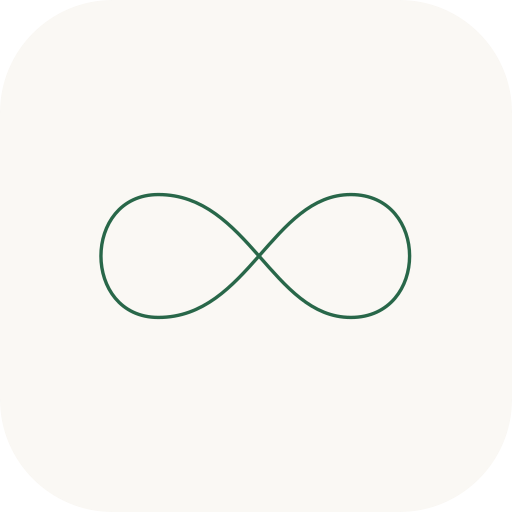
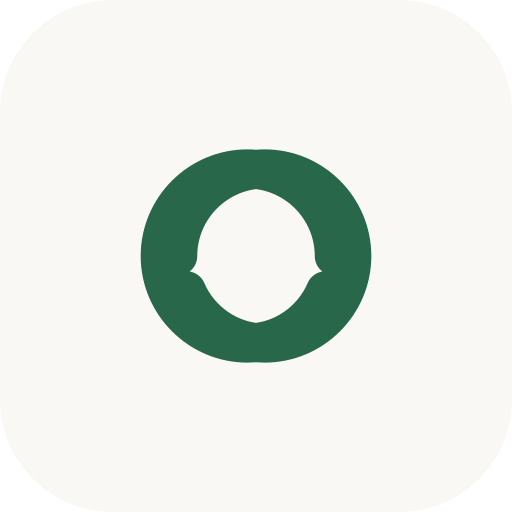
feat: adopt the ring mark as Zapit's brand identity
User picked this from a screenshot earlier in the session — it was
actually my first, scrapped icon attempt (a hand-drawn infinity path
that collapsed into a ring instead of a figure-8 when stroked). Rather
than silently using the mistake, flagged it honestly and confirmed
they wanted it anyway before adopting it as the real brand mark.

New ZapitMark.tsx (shared component, replaces lucide-react's Infinity
icon in NavBar.tsx, app/privacy/page.tsx, app/terms/page.tsx — the
exact same path reused everywhere instead of copy-pasted SVG).
Regenerated icon-*.png / icon-*-maskable.png from the identical path
via scripts/generate-icons.mjs so the app icon, favicon, and in-app
logo all now match pixel-for-pixel.

Found and fixed a real hydration mismatch while verifying this live:
the new SVG had no explicit width/height attributes, and something in
the browser pane (extension or automation tooling — the exact React
error message calls this out as a known cause) was injecting
width=24/height=24 client-side after hydration, causing a server/
client mismatch. Fixed by setting them explicitly rather than relying
on implicit sizing, matching how lucide-react's icons behave by
default. Re-verified clean afterward — no hydration warnings, ring
mark renders correctly on the landing page, navbar (both idle and
connected states), and the privacy page.

diff --git a/frontend/components/ZapitMark.tsx b/frontend/components/ZapitMark.tsx
@@ -1,0 +1,35 @@
+// Zapit's brand mark — a bold ring with a pinched inner waist. Used
+// everywhere the wordmark lockup appears (NavBar, privacy/terms headers)
+// and is the same shape rasterized for the app/PWA icons — see
+// frontend/scripts/generate-icons.mjs. Uses currentColor so the existing
+// `className="text-primary"` usage pattern keeps working exactly like the
+// lucide-react <Infinity> icon it replaces.
+export function ZapitMark({ className, strokeWidth = 9 }: { className?: string; strokeWidth?: number }) {
+  return (
+    <svg
+      viewBox="0 0 100 100"
+      width={24}
+      height={24}
+      className={className}
+      fill="none"
+      xmlns="http://www.w3.org/2000/svg"
+    >
+      <path
+        d="M 32 50
+           C 32 39, 41 30, 52 30
+           C 63 30, 72 39, 72 50
+           C 72 61, 63 70, 52 70
+           C 44 70, 37 65, 34 58
+           M 68 50
+           C 68 39, 59 30, 48 30
+           C 37 30, 28 39, 28 50
+           C 28 61, 37 70, 48 70
+           C 56 70, 63 65, 66 58"
+        stroke="currentColor"
+        strokeWidth={strokeWidth}
+        strokeLinecap="round"
+        strokeLinejoin="round"
+      />
+    </svg>
+  );
+}

diff --git a/frontend/components/NavBar.tsx b/frontend/components/NavBar.tsx
@@ -1,7 +1,8 @@
 'use client';
 
-import { Infinity, X } from 'lucide-react';
+import { X } from 'lucide-react';
 import { SignalingSettings } from './SignalingSettings';
+import { ZapitMark } from './ZapitMark';
 
 interface NavBarProps {
   roomCode: string | null;
@@ -13,7 +14,7 @@ export function NavBar({ roomCode, onDisconnect }: NavBarProps) {
     <header className="w-full px-6 py-4 flex items-center justify-between max-w-5xl mx-auto">
       <div className="flex items-center gap-3">
         <div className="flex items-center gap-2">
-          <Infinity className="text-primary w-6 h-6" strokeWidth={2.5} />
+          <ZapitMark className="text-primary w-6 h-6" />
           <span className="font-display font-bold text-xl text-primary tracking-tight">
             Zapit
           </span>

diff --git a/frontend/app/terms/page.tsx b/frontend/app/terms/page.tsx
@@ -1,5 +1,5 @@
 import Link from 'next/link';
-import { Infinity } from 'lucide-react';
+import { ZapitMark } from '@/components/ZapitMark';
 
 export const metadata = {
   title: 'Terms of Service — Zapit',
@@ -11,7 +11,7 @@ export default function TermsPage() {
     <div className="min-h-screen bg-background flex flex-col">
       <header className="w-full px-6 py-4 flex items-center max-w-5xl mx-auto">
         <Link href="/" className="flex items-center gap-2">
-          <Infinity className="text-primary w-6 h-6" strokeWidth={2.5} />
+          <ZapitMark className="text-primary w-6 h-6" />
           <span className="font-display font-bold text-xl text-primary tracking-tight">Zapit</span>
         </Link>
       </header>

diff --git a/frontend/app/privacy/page.tsx b/frontend/app/privacy/page.tsx
@@ -1,5 +1,5 @@
 import Link from 'next/link';
-import { Infinity } from 'lucide-react';
+import { ZapitMark } from '@/components/ZapitMark';
 
 export const metadata = {
   title: 'Privacy Policy — Zapit',
@@ -12,7 +12,7 @@ export default function PrivacyPage() {
       {/* Minimal nav */}
       <header className="w-full px-6 py-4 flex items-center max-w-5xl mx-auto">
         <Link href="/" className="flex items-center gap-2">
-          <Infinity className="text-primary w-6 h-6" strokeWidth={2.5} />
+          <ZapitMark className="text-primary w-6 h-6" />
           <span className="font-display font-bold text-xl text-primary tracking-tight">Zapit</span>
         </Link>
       </header>
